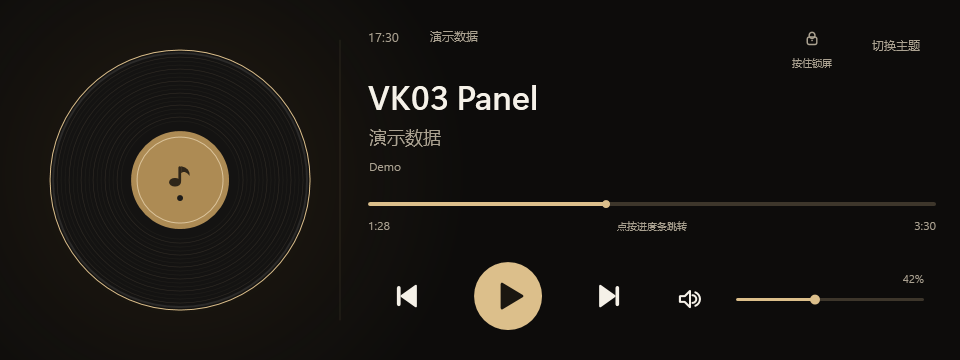
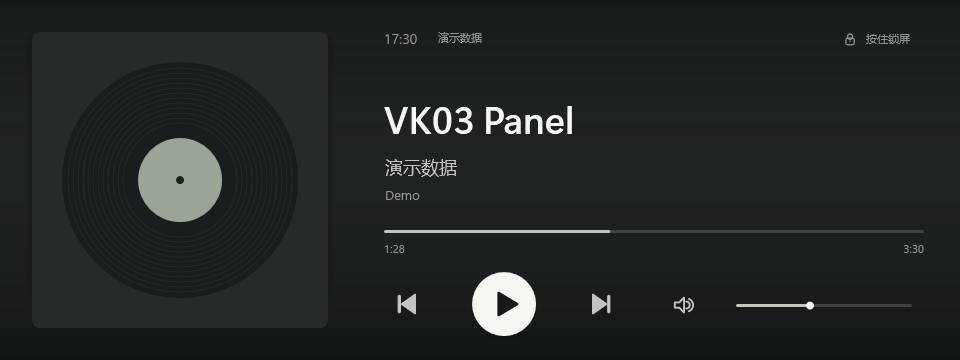
Refine immersive playback and remove settings frame counters

diff --git a/windows/src/VK03Panel.App/UI/Pages/AppearancePage.xaml b/windows/src/VK03Panel.App/UI/Pages/AppearancePage.xaml
@@ -4,7 +4,7 @@
     <StackPanel MaxWidth="820" HorizontalAlignment="Left">
         <TextBlock Text="外观" Style="{StaticResource PageTitle}" />
         <TextBlock Style="{StaticResource PageSubtitle}"
-                   Text="在这里选择主题；也可点按副屏时钟或“切换主题”按钮依次切换。" />
+                   Text="在这里选择副屏主题；切换后立即生效并保存。" />
 
         <TextBlock Text="副屏主题" Style="{StaticResource SectionTitle}" Margin="2,4,0,8" />
         <WrapPanel Margin="0,0,0,14">
@@ -52,7 +52,7 @@
                 <StackPanel Width="228">
                     <Border CornerRadius="4" Height="92" ClipToBounds="True" Background="#110E0A"><Image x:Name="ThumbImmersive" Stretch="UniformToFill" /></Border>
                     <TextBlock Text="沉浸播放" FontSize="13" FontWeight="SemiBold" Margin="1,8,0,0" />
-                    <TextBlock Text="大封面、播放与进度控制" FontSize="11" Margin="1,2,0,2" Foreground="{DynamicResource TextSecondaryBrush}" />
+                    <TextBlock Text="封面氛围、简洁播放控制" FontSize="11" Margin="1,2,0,2" Foreground="{DynamicResource TextSecondaryBrush}" />
                 </StackPanel>
             </RadioButton>
         </WrapPanel>

diff --git a/windows/src/VK03Panel.App/UI/Pages/DisplayPage.xaml b/windows/src/VK03Panel.App/UI/Pages/DisplayPage.xaml
@@ -33,10 +33,6 @@
                     <TextBlock Text="点击预览可模拟触控：静音、音量、切歌、按住锁屏"
                                FontSize="11"
                                Foreground="{DynamicResource TextTertiaryBrush}" />
-                    <TextBlock x:Name="FrameText"
-                               HorizontalAlignment="Right"
-                               FontSize="11"
-                               Foreground="{DynamicResource TextTertiaryBrush}" />
                 </Grid>
             </StackPanel>
         </Border>

diff --git a/windows/src/VK03Panel.App/MainWindow.xaml b/windows/src/VK03Panel.App/MainWindow.xaml
@@ -140,6 +140,7 @@
                             </StackPanel>
                             <TextBlock x:Name="StatusDetail"
                                        Text=""
+                                       Visibility="Collapsed"
                                        FontSize="10"
                                        Margin="0,4,0,0"
                                        TextTrimming="CharacterEllipsis"

diff --git a/windows/src/VK03Panel.Core/Themes/ImmersiveTheme.cs b/windows/src/VK03Panel.Core/Themes/ImmersiveTheme.cs
@@ -7,31 +7,31 @@ using System.Windows.Media.Imaging;
 
 namespace VK03Panel.Core.Themes;
 
-/// <summary>Cover-led, warm-metal now-playing page without hardware widgets.</summary>
+/// <summary>Artwork, quiet typography and tactile playback controls on one continuous surface.</summary>
 public sealed class ImmersiveTheme : IPanelTheme, ISeekTheme
 {
     private readonly object _artSync = new();
     private ImageSource? _lastArtwork;
     private BitmapSource? _softArtwork;
-    private static readonly Rect Progress = new(368, 202, 568, 4);
+    private static readonly Rect Cover = new(32, 32, 296, 296);
+    private static readonly Rect Progress = new(384, 230, 540, 3);
     public string Id => "immersive";
     public string DisplayName => "沉浸播放";
-    public string Description => "大封面、金属光影与完整播放控制";
+    public string Description => "封面氛围、舒展排版与简洁播放控制";
     public Size DesignSize => new(960, 360);
     public double SliderLeft => 736;
-    public double SliderWidth => 188;
+    public double SliderWidth => 176;
     public double SeekLeft => Progress.Left;
     public double SeekWidth => Progress.Width;
     public Rect Bounds(PanelAction a) => a switch
     {
-        PanelAction.CycleTheme => new Rect(856, 20, 80, 48),
-        PanelAction.Lock => new Rect(784, 20, 56, 48),
-        PanelAction.Seek => new Rect(368, 188, 568, 48),
-        PanelAction.Previous => new Rect(374, 258, 64, 72),
-        PanelAction.Play => new Rect(468, 256, 80, 80),
-        PanelAction.Next => new Rect(578, 258, 64, 72),
-        PanelAction.Mute => new Rect(666, 272, 48, 48),
-        PanelAction.Volume => new Rect(724, 272, 212, 48),
+        PanelAction.Lock => new Rect(832, 16, 104, 48),
+        PanelAction.Seek => new Rect(372, 214, 564, 48),
+        PanelAction.Previous => new Rect(374, 272, 64, 64),
+        PanelAction.Play => new Rect(464, 264, 80, 80),
+        PanelAction.Next => new Rect(570, 272, 64, 64),
+        PanelAction.Mute => new Rect(660, 272, 48, 64),
+        PanelAction.Volume => new Rect(724, 272, 212, 64),
         _ => Rect.Empty,
     };
     public PanelAction? HitTest(Point p)
@@ -43,64 +43,91 @@ public sealed class ImmersiveTheme : IPanelTheme, ISeekTheme
     public void Draw(PanelViewModel m, DrawingContext dc, Size size)
     {
         var dark = m.DarkMode;
-        var gold = Paint.Brush(dark ? Color.FromRgb(220, 191, 139) : Color.FromRgb(124, 88, 38));
-        var ink = Paint.Brush(dark ? Color.FromRgb(245, 241, 232) : Color.FromRgb(42, 35, 25));
-        var muted = Paint.Brush(dark ? Color.FromRgb(171, 162, 145) : Color.FromRgb(119, 105, 83));
-        var track = Paint.Brush(dark ? Color.FromRgb(61, 54, 43) : Color.FromRgb(213, 202, 181));
-        var baseColor = dark ? Color.FromRgb(13, 12, 11) : Color.FromRgb(242, 237, 227);
-        dc.DrawRectangle(Paint.Brush(baseColor), null, new Rect(new Point(), size));
+        var ink = Paint.Brush(dark ? Color.FromRgb(246, 246, 243) : Color.FromRgb(35, 37, 36));
+        var secondary = Paint.Brush(dark ? Color.FromRgb(194, 196, 192) : Color.FromRgb(85, 89, 85));
+        var muted = Paint.Brush(dark ? Color.FromRgb(146, 150, 146) : Color.FromRgb(113, 118, 113));
+        var track = Paint.Brush(dark ? Color.FromArgb(46, 236, 240, 233) : Color.FromArgb(48, 45, 52, 45));
+        var baseColor = dark ? Color.FromRgb(22, 25, 25) : Color.FromRgb(238, 239, 233);
+        var surface = new Rect(new Point(), size);
+        dc.DrawRectangle(Paint.Brush(baseColor), null, surface);
         if (m.Media.Artwork is { } artwork)
         {
-            dc.PushOpacity(dark ? .24 : .14);
-            dc.DrawImage(SoftArtwork(artwork), new Rect(0, 0, 960, 360));
+            dc.PushOpacity(dark ? .50 : .23);
+            dc.DrawImage(SoftArtwork(artwork), surface);
             dc.Pop();
+            // Keep the album's atmosphere on the left while giving text a calm, stable surface.
+            Paint.LinearGradient(dc, surface, new Point(0, 0), new Point(1, 0),
+                (0, Paint.WithAlpha(baseColor, .12)), (.40, Paint.WithAlpha(baseColor, .50)),
+                (1, Paint.WithAlpha(baseColor, .86)));
         }
-        Paint.RadialGlow(dc, new Point(180, 175), 290, Color.FromRgb(155, 116, 59), dark ? .14 : .10);
-        dc.DrawLine(Paint.Stroke(Paint.Brush(dark ? Color.FromArgb(28, 220, 191, 139) : Color.FromArgb(36, 124, 88, 38)), 1), new Point(340, 40), new Point(340, 320));
-        var cover = new Rect(40, 40, 280, 280);
-        if (m.Media.Artwork is { } image)
-        {
-            Paint.RoundedRect(dc, new Rect(cover.X, cover.Y + 8, cover.Width, cover.Height), 14, Paint.Brush(Color.FromArgb(65, 0, 0, 0)));
-            var brush = new ImageBrush(image) { Stretch = Stretch.UniformToFill };
-            Paint.ClipRounded(dc, cover, 14, () => dc.DrawRectangle(brush, null, cover));
-            dc.DrawRoundedRectangle(null, Paint.Stroke(Paint.Brush(Color.FromArgb(45, 255, 255, 255)), 1), cover, 14, 14);
-        }
-        else DrawRecord(dc, new Point(180, 180), gold, dark);
+        Paint.LinearGradient(dc, surface, new Point(0, 0), new Point(0, 1),
+            (0, Color.FromArgb(dark ? (byte)0 : (byte)24, 255, 255, 255)),
+            (1, Color.FromArgb(dark ? (byte)45 : (byte)0, 0, 0, 0)));
 
-        Paint.Text(dc, m.Time.ToString("HH:mm", CultureInfo.InvariantCulture), 368, 30, 13, muted, tabular: true);
-        if (m.Demo) Paint.Text(dc, "演示数据", 430, 30, 12, muted);
-        Paint.Text(dc, string.IsNullOrEmpty(m.Media.Title) ? "暂无播放" : m.Media.Title,
-            368, 78, 34, ink, TextWeight.SemiBold, maxWidth: 568);
-        Paint.Text(dc, string.IsNullOrEmpty(m.Media.Artist) ? (m.Media.HasSession ? "未知歌手" : m.PlaybackMessage ?? "等待媒体播放") : m.Media.Artist,
-            369, 127, 18, muted, maxWidth: 560);
-        if (!string.IsNullOrEmpty(m.Media.Album)) Paint.Text(dc, m.Media.Album, 369, 160, 12, muted, maxWidth: 560);
-        Paint.Bar(dc, Progress, m.Media.Progress, track, m.Media.CanSeek ? gold : muted);
+        // A broad, soft shadow replaces the metallic outline and dividing rule.
+        for (var i = 7; i >= 1; i--)
+            Paint.RoundedRect(dc, new Rect(Cover.X - i, Cover.Y + 5 - i, Cover.Width + i * 2, Cover.Height + i * 2),
+                9 + i, Paint.Brush(Color.FromArgb(dark ? (byte)5 : (byte)3, 0, 0, 0)));
+        Paint.ClipRounded(dc, Cover, 8, () =>
+        {
+            if (m.Media.Artwork is { } image)
+                dc.DrawRectangle(new ImageBrush(image) { Stretch = Stretch.UniformToFill }, null, Cover);
+            else DrawRecord(dc, dark);
+        });
+
+        Paint.Text(dc, m.Time.ToString("HH:mm", CultureInfo.InvariantCulture), 384, 31, 14, muted, tabular: true);
+        if (m.Demo) Paint.Text(dc, "演示数据", 438, 32, 11, muted);
+        DrawMetadata(dc, m, ink, secondary, muted);
+
+        // An absent player timeline must not leave a permanently empty progress bar.
         if (m.Media.DurationSeconds > 0)
         {
-            var head = Progress.X + Progress.Width * m.Media.Progress;
-            dc.DrawEllipse(m.Media.CanSeek ? gold : muted, null, new Point(head, 204), 4, 4);
-            Paint.Text(dc, Time(m.Media.ElapsedSeconds), 368, 219, 12, muted, tabular: true);
-            Right(dc, Time(m.Media.DurationSeconds), 936, 219, 12, muted);
-            Paint.CenteredText(dc, m.Media.CanSeek ? "点按进度条跳转" : "播放器未开放跳转", 652, 220, 10, muted);
+            Paint.Bar(dc, Progress, m.Media.Progress, track, secondary);
+            if (m.PressedAction == PanelAction.Seek && m.Media.CanSeek)
+                dc.DrawEllipse(ink, null, new Point(Progress.X + Progress.Width * m.Media.Progress, 231.5), 4, 4);
+            Paint.Text(dc, Time(m.Media.ElapsedSeconds), 384, 243, 11, muted, tabular: true);
+            Right(dc, Time(m.Media.DurationSeconds), 924, 243, 11, muted);
         }
-        foreach (var a in Enum.GetValues<PanelAction>())
-            if (m.PressedAction == a && a is not (PanelAction.Play or PanelAction.Seek) && !Bounds(a).IsEmpty)
-                Paint.RoundedRect(dc, Rect.Inflate(Bounds(a), -2, -2), 8, Paint.Brush(Color.FromArgb(22, 200, 170, 114)));
-        MacGlyphs.Previous(dc, Box(406, 296, 26), ink);
-        MacGlyphs.Next(dc, Box(610, 296, 26), ink);
-        dc.DrawEllipse(m.PressedAction == PanelAction.Play ? muted : gold, null, new Point(508, 296), 34, 34);
-        var playInk = Paint.Brush(dark ? Color.FromRgb(26, 22, 16) : Color.FromRgb(250, 246, 237));
-        if (m.Media.Playing) MacGlyphs.Pause(dc, Box(508, 296, 29), playInk);
-        else MacGlyphs.Play(dc, Box(510, 296, 29), playInk);
-        Win11Glyphs.Speaker(dc, Box(690, 299, 24), m.Muted ? muted : ink, m.Muted);
-        Paint.Bar(dc, new Rect(SliderLeft, 298, SliderWidth, 3), m.Muted ? 0 : m.Volume ?? 0, track, gold);
+
+        foreach (var a in new[] { PanelAction.Previous, PanelAction.Next, PanelAction.Mute, PanelAction.Volume, PanelAction.Lock })
+            if (m.PressedAction == a)
+                Paint.RoundedRect(dc, Rect.Inflate(Bounds(a), -2, -2), 12,
+                    Paint.Brush(dark ? Color.FromArgb(22, 255, 255, 255) : Color.FromArgb(16, 0, 0, 0)));
+        MacGlyphs.Previous(dc, Box(406, 304, 24), secondary);
+        MacGlyphs.Next(dc, Box(602, 304, 24), secondary);
+        var playFill = m.PressedAction == PanelAction.Play ? secondary : ink;
+        dc.DrawEllipse(Paint.Brush(Color.FromArgb(dark ? (byte)36 : (byte)14, 0, 0, 0)), null, new Point(504, 308), 33, 33);
+        dc.DrawEllipse(playFill, null, new Point(504, 304), 32, 32);
+        var playInk = Paint.Brush(baseColor);
+        if (m.Media.Playing) MacGlyphs.Pause(dc, Box(504, 304, 26), playInk);
+        else MacGlyphs.Play(dc, Box(506, 304, 27), playInk);
+        Win11Glyphs.Speaker(dc, Box(684, 305, 22), m.Muted ? muted : secondary, m.Muted);
+        Paint.Bar(dc, new Rect(SliderLeft, 304, SliderWidth, 3), m.Muted ? 0 : m.Volume ?? 0, track, secondary);
         if (m.Volume.HasValue)
-            dc.DrawEllipse(gold, null, new Point(SliderLeft + (m.Muted ? 0 : Math.Clamp(m.Volume.Value, 0, 1)) * SliderWidth, 299.5), 5, 5);
-        Right(dc, m.Muted ? "已静音" : m.Volume.HasValue ? $"{m.Volume.Value * 100:0}%" : "—", 924, 273, 11, muted);
-        Win11Glyphs.Lock(dc, Box(812, 38, 17), m.CanLock ? muted : track);
-        Paint.CenteredText(dc, m.LockProgress > 0 ? "保持按住" : "按住锁屏", 812, 57, 10, muted);
-        Paint.CenteredText(dc, "切换主题", 896, 39, 12, muted);
-        if (m.LockProgress > 0) dc.DrawRectangle(gold, null, new Rect(792, 72, 40 * Math.Clamp(m.LockProgress, 0, 1), 2));
+            dc.DrawEllipse(ink, null, new Point(SliderLeft + (m.Muted ? 0 : Math.Clamp(m.Volume.Value, 0, 1)) * SliderWidth, 305.5), 4, 4);
+        // The value appears during adjustment; the idle player remains visually quiet.
+        if (m.PressedAction is PanelAction.Volume or PanelAction.Mute)
+            Right(dc, m.Muted ? "已静音" : m.Volume.HasValue ? $"{m.Volume.Value * 100:0}%" : "—", 912, 282, 11, muted);
+        Win11Glyphs.Lock(dc, Box(850, 39, 15), m.CanLock ? muted : track);
+        Paint.Text(dc, m.LockProgress > 0 ? "保持按住" : "按住锁屏", 866, 33, 11, muted);
+        if (m.LockProgress > 0)
+            Paint.Bar(dc, new Rect(844, 58, 80, 2), m.LockProgress, track, ink);
+    }
+    private static void DrawMetadata(DrawingContext dc, PanelViewModel m, Brush ink, Brush secondary, Brush muted)
+    {
+        var title = string.IsNullOrWhiteSpace(m.Media.Title) ? "暂无播放" : m.Media.Title;
+        var formatted = new FormattedText(title, CultureInfo.GetCultureInfo("zh-CN"), FlowDirection.LeftToRight,
+            new Typeface(Paint.DisplayFamily, FontStyles.Normal, FontWeights.Medium, FontStretches.Normal), 38, ink, 1)
+        {
+            MaxTextWidth = 540, MaxLineCount = 2, LineHeight = 46, Trimming = TextTrimming.CharacterEllipsis,
+        };
+        // Bottom-align one or two title lines within the same reserved region.
+        dc.DrawText(formatted, new Point(384, 143 - formatted.Height));
+        var artist = !string.IsNullOrWhiteSpace(m.Media.Artist) ? m.Media.Artist
+            : m.Media.HasSession ? "未知歌手" : m.PlaybackMessage ?? "等待媒体播放";
+        Paint.Text(dc, artist, 385, 157, 18, secondary, maxWidth: 538);
+        if (!string.IsNullOrWhiteSpace(m.Media.Album))
+            Paint.Text(dc, m.Media.Album, 385, 188, 13, muted, maxWidth: 538);
     }
     private BitmapSource SoftArtwork(ImageSource artwork)
     {
@@ -108,22 +135,21 @@ public sealed class ImmersiveTheme : IPanelTheme, ISeekTheme
         {
             if (ReferenceEquals(artwork, _lastArtwork) && _softArtwork is not null) return _softArtwork;
             var image = new Image { Source = artwork, Width = 120, Height = 45, Stretch = Stretch.UniformToFill,
-                Effect = new BlurEffect { Radius = 16, RenderingBias = RenderingBias.Quality } };
+                Effect = new BlurEffect { Radius = 18, RenderingBias = RenderingBias.Quality } };
             image.Measure(new Size(120, 45)); image.Arrange(new Rect(0, 0, 120, 45));
             var bitmap = new RenderTargetBitmap(120, 45, 96, 96, PixelFormats.Pbgra32); bitmap.Render(image); bitmap.Freeze();
             _lastArtwork = artwork; _softArtwork = bitmap; return bitmap;
         }
     }
-    private static void DrawRecord(DrawingContext dc, Point c, Brush gold, bool dark)
+    private static void DrawRecord(DrawingContext dc, bool dark)
     {
-        dc.DrawEllipse(Paint.Brush(dark ? Color.FromRgb(20, 19, 18) : Color.FromRgb(43, 40, 36)), Paint.Stroke(gold, 1), c, 130, 130);
-        for (var r = 59; r < 125; r += 4)
-            dc.DrawEllipse(null, Paint.Stroke(Paint.Brush(Color.FromArgb(r % 3 == 0 ? (byte)35 : (byte)16, 215, 193, 149)), .6), c, r, r);
-        dc.DrawEllipse(Paint.Brush(Color.FromRgb(173, 139, 84)), null, c, 49, 49);
-        dc.DrawEllipse(null, Paint.Stroke(Paint.Brush(Color.FromRgb(219, 196, 156)), 1), c, 43, 43);
-        MacGlyphs.MusicNote(dc, Box(c.X, c.Y - 5, 24), Paint.Brush(Color.FromRgb(47, 38, 25)));
-        dc.DrawEllipse(Paint.Brush(Color.FromRgb(30, 28, 25)), null, new Point(c.X, c.Y + 18), 3, 3);
-        dc.DrawEllipse(null, Paint.Stroke(Paint.Brush(Color.FromArgb(25, 255, 255, 255)), 2), c, 127, 127);
+        dc.DrawRectangle(Paint.Brush(dark ? Color.FromRgb(38, 42, 42) : Color.FromRgb(219, 223, 215)), null, Cover);
+        var center = new Point(180, 180);
+        dc.DrawEllipse(Paint.Brush(Color.FromRgb(26, 29, 29)), null, center, 118, 118);
+        for (var r = 57; r < 116; r += 5)
+            dc.DrawEllipse(null, Paint.Stroke(Paint.Brush(Color.FromArgb(18, 213, 221, 214)), .7), center, r, r);
+        dc.DrawEllipse(Paint.Brush(Color.FromRgb(154, 165, 152)), null, center, 42, 42);
+        dc.DrawEllipse(Paint.Brush(Color.FromRgb(26, 29, 29)), null, center, 4, 4);
     }
     private static Rect Box(double x, double y, double s) => new(x - s / 2, y - s / 2, s, s);
     private static string Time(double s) { var n = (int)Math.Max(0, s); return $"{n / 60}:{n % 60:00}"; }

diff --git a/windows/src/VK03Panel.App/MainWindow.xaml.cs b/windows/src/VK03Panel.App/MainWindow.xaml.cs
@@ -73,9 +73,8 @@ public partial class MainWindow : Window
             StatusText.Text = status.PanelConnected
                 ? $"副屏在线 · {status.DataSource}"
                 : status.TransportMessage;
-            StatusDetail.Text = status.PanelConnected
-                ? $"{status.FramesSent} 帧 · {status.LastFrameMilliseconds:0.0} ms"
-                : status.LastError ?? "自动重连中";
+            StatusDetail.Text = status.LastError ?? (status.PanelConnected ? string.Empty : "自动重连中");
+            StatusDetail.Visibility = string.IsNullOrEmpty(StatusDetail.Text) ? Visibility.Collapsed : Visibility.Visible;
 
             if (!status.PanelConnected && status.LastError is null)
             {

diff --git a/windows/src/VK03Panel.Core.Tests/ThemeLayoutTests.cs b/windows/src/VK03Panel.Core.Tests/ThemeLayoutTests.cs
@@ -49,7 +49,8 @@ public sealed class ThemeLayoutTests
             {
                 // The Windows 11 layout intentionally omits the ± buttons; the slider covers it.
                 Assert.True((themeId != PanelThemes.MacId && action is PanelAction.Quieter or PanelAction.Louder)
-                            || (themeId != PanelThemes.ImmersiveId && action == PanelAction.Seek));
+                            || (themeId != PanelThemes.ImmersiveId && action == PanelAction.Seek)
+                            || (themeId == PanelThemes.ImmersiveId && action == PanelAction.CycleTheme));
                 continue;
             }
 

diff --git a/windows/src/VK03Panel.App/UI/Pages/DisplayPage.xaml.cs b/windows/src/VK03Panel.App/UI/Pages/DisplayPage.xaml.cs
@@ -55,9 +55,6 @@ public partial class DisplayPage : UserControl, ISettingsPage
         ErrorText.Text = status.LastError ?? (status.PanelConnected
             ? "副屏工作正常；退出程序时可在“启动”页关闭屏幕。"
             : "接通副屏 USB 后会自动初始化；若厂商程序正在使用副屏，请先退出该程序。");
-        FrameText.Text = status.PanelConnected
-            ? $"已发送 {status.FramesSent} 帧 · {status.LastFrameMilliseconds:0.0} ms"
-            : string.Empty;
     }
 
     public void UpdatePreview(BitmapSource? preview)

diff --git a/windows/docs/THEMES.md b/windows/docs/THEMES.md
@@ -33,13 +33,14 @@
 所有可见按钮的热区至少为 48×48 像素；四款主题都有热区不重叠、边缘命中和滑条端点测试。
 只有 macOS 主题保留独立的 `Quieter` / `Louder` 按钮，其余主题用滑条调节音量。
 沉浸播放增加 `Seek` 热区；手指松开时发出一次跳转请求，播放器不支持跳转时只显示进度。
-点按 Windows 11 / macOS 的时钟，或星环 / 沉浸播放的主题按钮，可依次循环切换主题并保存选择。
+点按 Windows 11 / macOS 的时钟，或星环的主题按钮，可依次循环切换主题并保存选择。沉浸播放不提供主题切换热区，需通过设置“外观”页或托盘菜单切换。
 
 ## 星环与沉浸播放
 
 星环的环形刻度表示真实 CPU / GPU 利用率。“近期峰值”取最近最多 40 个有效采样点，与正常采样频率一致；重绘和锁屏动画不会额外推进历史。
 
 沉浸播放读取当前 Windows 媒体会话的实际封面、歌曲、歌手、专辑与时间轴。没有封面时使用静态唱片图形；不绘制伪造的实时音频频谱。背景模糊只在封面更换时计算并缓存。
+沉浸播放使用中性色播放控件与柔化的封面背景，不使用金色描边或竖向分隔线。曲名最多显示两行，歌手与专辑分级呈现；音量数值仅在调节或静音操作时显示。播放器没有时间轴时不显示空进度条。
 两款新主题都支持深色和浅色。
 
 ```powershell

diff --git a/windows/README.en.md b/windows/README.en.md
@@ -14,7 +14,7 @@ that also merges both visual languages into one app: the panel theme can be swit
 
 - Native .NET 9 / WPF application; the settings window follows Windows 11 design
   (Mica ambiance, 8 px cards, Segoe UI Variable, Fluent toggles, system light/dark and accent).
-- Four panel themes: Windows 11, macOS, Nebula instruments and Immersive now playing. Tap the clock or theme control on the physical screen to cycle through them.
+- Four panel themes: Windows 11, macOS, Nebula instruments and Immersive now playing. Windows 11 / macOS clocks and the Nebula theme control cycle through themes. Immersive leaves theme selection to settings or the tray menu.
 - Local monitoring only: CPU load/frequency, memory, NVIDIA GPU utilisation and temperature.
 - Now playing via the Windows media session (GSMTC), including artwork and progress.
 - Touch: mute, volume scrub, transport, hold-to-lock (HID and raw-USB backends).

diff --git a/CHANGELOG.md b/CHANGELOG.md
@@ -1,5 +1,13 @@
 # Changelog
 
+## 2026-11-02 — Simplify settings and refine immersive playback
+
+- Remove frame counters and render timings from the settings sidebar and display preview; retain connection and error information.
+- Remove the Immersive theme-switch control and its touch target; theme selection remains available in settings and the tray.
+- Enlarge artwork, soften its cached background, replace gold decoration with neutral controls, and allow two title lines.
+- Hide an unavailable timeline and show volume numbers only during interaction.
+- Verify the existing 72 tests and offline renders of dark/light, long-title, missing-artwork and settings layouts.
+
 ## 2026-11-01 — Instrument and immersive playback themes
 
 - Add Nebula instruments and a cover-led Immersive now-playing theme, including dark and light appearances.
